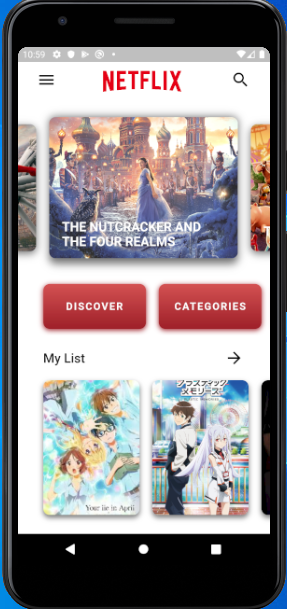
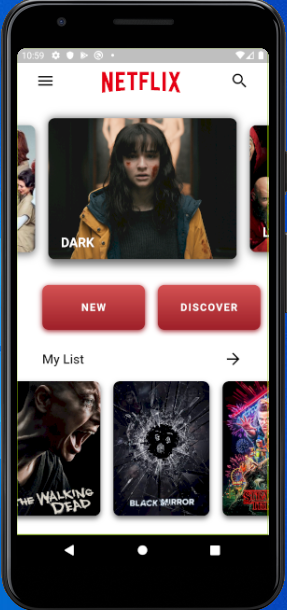
initial commit

diff --git a/lib/models/movie_model.dart b/lib/models/movie_model.dart
@@ -22,70 +22,70 @@ class Movie {
 
 final List<Movie> movies = [
   Movie(
-    imageUrl: 'assets/images/spiderman.jpg',
-    title: 'Spider-Man: Far From Home',
-    categories: 'Fantasy, Sci-fi',
-    year: 2018,
+    imageUrl: 'assets/images/orangeis_0.jpg',
+    title: 'Orange Is the New Black',
+    categories: 'Comedy, Drama',
+    year: 2013,
     country: 'USA',
-    length: 129,
+    length: 60,
     description:
-    'Our friendly neighborhood Super Hero decides to join his best friends Ned, MJ, and the rest of the gang on a European vacation. However, Peter\'s plan to leave super heroics behind for a few weeks are quickly scrapped when he begrudgingly agrees to help Nick Fury uncover the mystery of several elemental creature attacks, creating havoc across the continent.',
+        'A crime she committed in her youthful past sends Piper Chapman to a womens prison, where she trades her comfortable New York life for one of unexpected camaraderie and conflict in an eccentric group of fellow inmates.',
     screenshots: [
-      'assets/images/spiderman_0.jpg',
-      'assets/images/spiderman_1.jpg',
-      'assets/images/spiderman_2.jpg',
+      'assets/images/orangeis.jpg',
+      'assets/images/orangeis_1.jpg',
+      'assets/images/orangeis_2.jpg',
     ],
   ),
   Movie(
-    imageUrl: 'assets/images/nutcracker.jpg',
-    title: 'The Nutcracker And The Four Realms',
-    categories: 'Adventure, Family, Fantasy',
+    imageUrl: 'assets/images/dark_0.jpg',
+    title: 'Dark',
+    categories: 'Sci-Fi & Fantasy, Drama, Mystery, Crime.',
     year: 2018,
     country: 'USA',
-    length: 100,
+    length: 53,
     description:
-    'All Clara wants is a key - a one-of-a-kind key that will unlock a box that holds a priceless gift from her late mother. A golden thread, presented to her at godfather Drosselmeyer\'s annual holiday party, leads her to the coveted key-which promptly disappears into a strange and mysterious parallel world. It\'s there that Clara encounters a soldier named Phillip, a gang of mice and the regents who preside over three Realms: Land of Snowflakes, Land of Flowers, and Land of Sweets. Clara and Phillip must brave the ominous Fourth Realm, home to the tyrant Mother Ginger, to retrieve Clara\'s key and hopefully return harmony to the unstable world.',
+        'A missing child causes four families to help each other for answers. What they could not imagine is that this mystery would be connected to innumerable other secrets of the small town.',
     screenshots: [
-      'assets/images/nutcracker_0.jpg',
-      'assets/images/nutcracker_1.jpg',
-      'assets/images/nutcracker_2.jpg',
+      'assets/images/dark.jpg',
+      'assets/images/dark_1.jpg',
+      'assets/images/dark_2.jpg',
     ],
   ),
   Movie(
-    imageUrl: 'assets/images/toystory.jpg',
-    title: 'Toy Story 4',
-    categories: 'Adventure, Fantasy',
-    year: 2019,
+    imageUrl: 'assets/images/lacasa_0.jpg',
+    title: 'La casa de papel',
+    categories: 'Crime, Drama',
+    year: 2017,
     country: 'USA',
-    length: 100,
+    length: 70,
     description:
-    'Woody, Buzz Lightyear and the rest of the gang embark on a road trip with Bonnie and a new toy named Forky. The adventurous journey turns into an unexpected reunion as Woody\'s slight detour leads him to his long-lost friend Bo Peep. As Woody and Bo discuss the old days, they soon start to realize that they\'re two worlds apart when it comes to what they want from life as a toy.',
+        'To carry out the biggest heist in history, a mysterious man called The Professor recruits a band of eight robbers who have a single characteristic: none of them has anything to lose. Five months of seclusion - memorizing every step, every detail, every probability - culminate in eleven days locked up in the National Coinage and Stamp Factory of Spain, surrounded by police forces and with dozens of hostages in their power, to find out whether their suicide wager will lead to everything or nothing',
     screenshots: [
-      'assets/images/toystory_0.jpg',
-      'assets/images/toystory_1.jpg',
-      'assets/images/toystory_2.jpg',
+      'assets/images/lacasa.jpg',
+      'assets/images/lacasa_1.jpg',
+      'assets/images/lacasa_2.jpg',
     ],
   ),
 ];
 
 final List<String> labels = [
-  'Discover',
-  'Categories',
-  'Specials',
   'New',
+  'Discover',
+  'Popular',
+  'Specials',
 ];
 
 final List<String> myList = [
-  'assets/images/shigatsu_wa_kimi_no_uso.jpg',
-  'assets/images/plastic_memories.png',
-  'assets/images/erased.jpg',
-  'assets/images/seven_deadly_sins.jpg',
-  'assets/images/cobra_kai.jpg',
+  'assets/images/emilyinparis.jpg',
+  'assets/images/thekissing.jpg',
+  'assets/images/twd.jpg',
+  'assets/images/blackmirror.jpg',
+  'assets/images/strangerthings.jpg',
 ];
 
 final List<String> popular = [
-  'assets/images/stranger_things.jpg',
-  'assets/images/endgame.jpg',
-  'assets/images/oitnb.jpg',
   'assets/images/daredevil.jpg',
+  'assets/images/endgame.jpg',
+  'assets/images/stranger_things.jpg',
+  'assets/images/oitnb.jpg',
 ];

diff --git a/lib/screens/movie_screen.dart b/lib/screens/movie_screen.dart
@@ -45,7 +45,7 @@ class _MovieScreenState extends State<MovieScreen> {
                     onPressed: () => Navigator.pop(context),
                     icon: Icon(Icons.arrow_back),
                     iconSize: 30,
-                    color: Colors.black,
+                    color: Colors.white,
                   ),
                   Image(
                     image: AssetImage('assets/images/netflix_logo.png'),

diff --git a/README.md b/README.md
@@ -22,6 +22,6 @@ For build please write command line this  code "flutter build apk" and will gonn
 ![Alt text](screenshots/2.PNG?raw=true "movie screen")
 
 ## Application Url (Google Drive)
-If you want to try this application, [you can download it here.](https://drive.google.com/file/d/1CNbWM6m2h6F3dqTYIhLjenP4G-g4Rv_i/view?usp=sharing)
+If you want to try this application, [you can download it here.](https://drive.google.com/file/d/1rCz-Zj0UzJvurqQulizK2_7U9ibCgYzk/view?usp=sharing)
 
-[Virustotal Report](https://www.virustotal.com/gui/file/6c2734d557f6f7d040ebdc41080fe848b5345711502f72574c9e73f30bb494ec/detection)
+[Virustotal Report](https://www.virustotal.com/gui/file/16642d31e37bfd39046fd75c3874081907a3edb77da4426e4d8558c24f8b6c66/detection)
